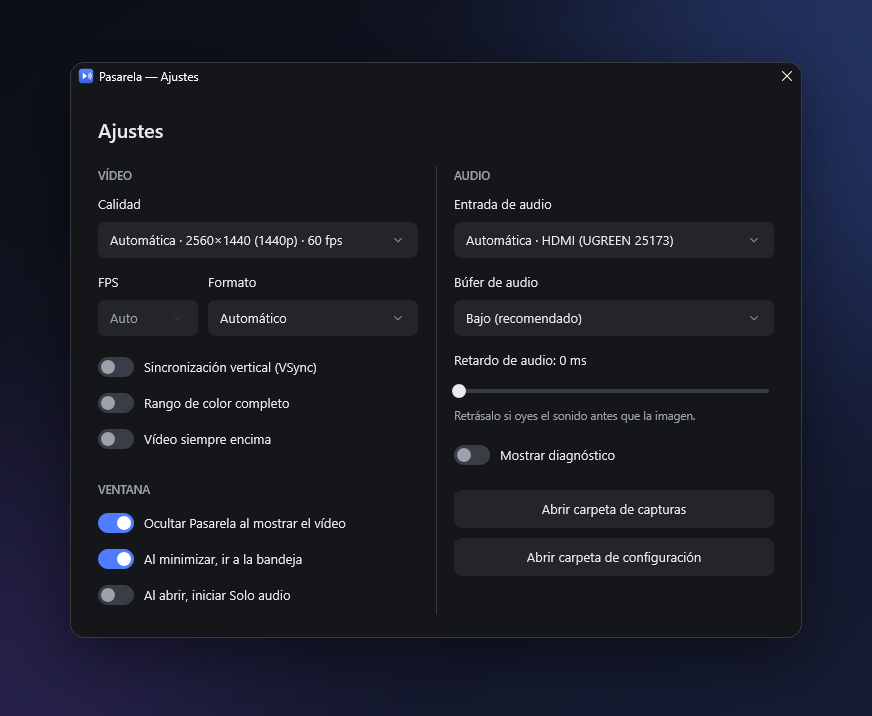
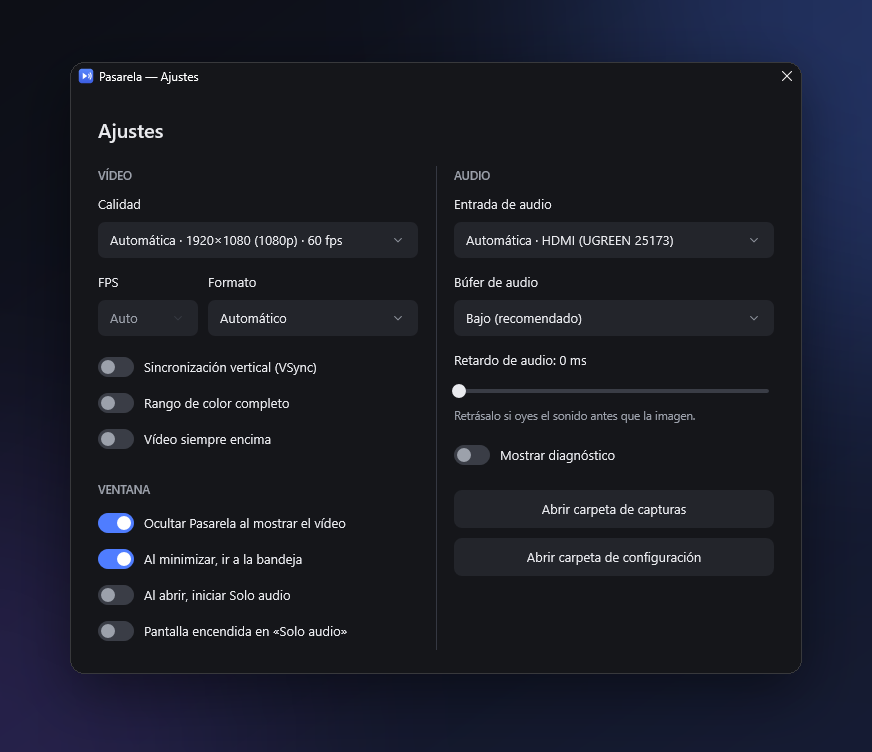
Pasarela 1.0.1: opción «Pantalla encendida en Solo audio» y versión visible en la ventana
Novedades
- Nueva opción en Ajustes › Ventana: «Pantalla encendida en «Solo audio»». Está desactivada
  por defecto. Le pide a Windows que no apague la pantalla mientras suena el audio, como ya
  ocurría con «Mostrar vídeo». Se aplica al momento, sin reiniciar el audio.
- La versión de la aplicación aparece junto al engranaje de la ventana principal, para
  identificar rápidamente qué compilación se está usando.

Sin cambios
- El audio, el vídeo y las capturas son idénticos a la 1.0.0.

Otros
- README e imagen de Ajustes actualizados con la opción nueva.
- Versión 1.0.1.

diff --git a/src/app.cpp b/src/app.cpp
@@ -39,7 +39,7 @@ enum : int {
     ID_BTN_AUDIO = 101, ID_BTN_VIDEO, ID_BTN_STOP, ID_SLIDER_VOL, ID_BTN_MUTE, ID_CB_VIDEO, ID_BTN_REFRESH,
     ID_CB_AOUT, ID_BTN_ADV, ID_CB_QUALITY, ID_CB_FPS, ID_CB_FORMAT, ID_CB_AIN, ID_TG_AUTO_AUDIO, ID_TG_TRAY,
     ID_TG_TOPMOST, ID_TG_VSYNC, ID_TG_FULLRANGE, ID_TG_DIAG, ID_CB_BUFFER, ID_SLIDER_DELAY,
-    ID_BTN_FOLDER, ID_BTN_SHOTS, ID_TG_HIDE_VIDEO,
+    ID_BTN_FOLDER, ID_BTN_SHOTS, ID_TG_HIDE_VIDEO, ID_TG_KEEP_DISPLAY,
 };
 enum : int {
     IDM_FULLSCREEN = 301, IDM_TOPMOST, IDM_MUTE, IDM_DIAG, IDM_HIDE_VIDEO, IDM_SCREENSHOT, IDM_STOP, IDM_SHOW, IDM_AUDIO, IDM_VIDEO,
@@ -185,9 +185,9 @@ private:
 
     HWND btnAudio_{}, btnVideo_{}, btnStop_{}, slVolume_{}, btnMute_{}, cbVideo_{}, btnRefresh_{}, cbOut_{}, btnAdv_{};
     HWND cbQuality_{}, cbFps_{}, cbFormat_{}, cbIn_{}, tgAutoAudio_{}, tgTray_{}, tgTopmost_{}, tgVsync_{}, tgFullRange_{};
-    HWND tgDiag_{}, cbBuffer_{}, slDelay_{}, btnFolder_{}, btnShots_{}, tgHideVideo_{};
+    HWND tgDiag_{}, cbBuffer_{}, slDelay_{}, btnFolder_{}, btnShots_{}, tgHideVideo_{}, tgKeepDisplay_{};
 
-    RECT rcTitle_{}, rcSubtitle_{}, rcVolumeValue_{}, rcStatus_{}, rcTip_{}, rcLblDelay_{},
+    RECT rcTitle_{}, rcSubtitle_{}, rcVersion_{}, rcVolumeValue_{}, rcStatus_{}, rcTip_{}, rcLblDelay_{},
         rcDiag_{};
     std::wstring statusText_;
     ui::Color statusColor_ = ui::theme::textDim;
@@ -378,6 +378,8 @@ void App::CreateControls() {
     tgHideVideo_ = MakeButton(w, ID_TG_HIDE_VIDEO, L"Ocultar Pasarela al mostrar el vídeo");
     tgTray_ = MakeButton(w, ID_TG_TRAY, L"Al minimizar, ir a la bandeja");
     tgAutoAudio_ = MakeButton(w, ID_TG_AUTO_AUDIO, L"Al abrir, iniciar Solo audio");
+    tgKeepDisplay_ = MakeButton(w, ID_TG_KEEP_DISPLAY, L"Pantalla encendida en «Solo audio»");
+    AddTooltip(w, tgKeepDisplay_, L"Evita que Windows apague la pantalla mientras suena el audio");
     cbIn_ = MakeCombo(w, ID_CB_AIN);
     cbBuffer_ = MakeCombo(w, ID_CB_BUFFER);
     slDelay_ = ui::CreateSlider(w, ID_SLIDER_DELAY, 0, 300, s_.audioDelayMs);
@@ -393,6 +395,7 @@ void App::CreateControls() {
     SetToggle(tgHideVideo_, s_.hideOnVideo);
     SetToggle(tgTray_, s_.tray);
     SetToggle(tgAutoAudio_, s_.autoAudio);
+    SetToggle(tgKeepDisplay_, s_.keepDisplayOnAudio);
     SetToggle(tgDiag_, s_.diagnostics);
 
     for (const wchar_t* t : {L"Ultra bajo (puede chasquear)", L"Bajo (recomendado)", L"Seguro (más estable)"})
@@ -426,7 +429,9 @@ void App::Layout() {
     };
 
     // Cabecera: título y botones de icono
-    rcTitle_ = {m, y, m + width - icon - P(8), y + P(32)};
+    // La versión va a la izquierda del engranaje, para identificar rápido qué compilación es.
+    rcVersion_ = {m + width - icon - P(8) - P(70), y, m + width - icon - P(8), y + P(32)};
+    rcTitle_ = {m, y, rcVersion_.left - P(4), y + P(32)};
     place(btnAdv_, m + width - icon, y, icon, icon);
     y += P(32);
     rcSubtitle_ = {m, y, m + width - icon - P(8), y + P(20)};
@@ -532,7 +537,7 @@ void App::LayoutSettings() {
     y += P(20);
     add({x, y, x + colW, y + P(18)}, L"VENTANA", 11.5f, ui::theme::textDim, true);
     y += P(28);
-    for (HWND t : {tgHideVideo_, tgTray_, tgAutoAudio_}) {
+    for (HWND t : {tgHideVideo_, tgTray_, tgAutoAudio_, tgKeepDisplay_}) {
         place(t, x, y, colW, P(30));
         y += P(36);
     }
@@ -616,6 +621,7 @@ void App::Paint(HDC dc) {
     using namespace ui::theme;
     p.Fill(rc, bg);
     p.Text(APP_NAME, rcTitle_, 24.0f * scale_, text, ui::Painter::Left, true);
+    p.Text(std::wstring(L"v") + APP_VERSION, rcVersion_, 12.0f * scale_, textDim, ui::Painter::Right);
     const VideoDevice* dev = SelectedVideoDevice();
     p.Text(dev ? dev->name : L"Capturadora HDMI", rcSubtitle_, 13.0f * scale_, textDim);
     PaintLabels(p, mainLabels_);
@@ -1319,7 +1325,8 @@ void App::UpdateExecutionState() {
     if (session_ == kVideo)
         SetThreadExecutionState(ES_CONTINUOUS | ES_SYSTEM_REQUIRED | ES_DISPLAY_REQUIRED);
     else if (session_ == kAudio)
-        SetThreadExecutionState(ES_CONTINUOUS | ES_SYSTEM_REQUIRED);
+        SetThreadExecutionState(ES_CONTINUOUS | ES_SYSTEM_REQUIRED |
+                                (s_.keepDisplayOnAudio ? ES_DISPLAY_REQUIRED : 0));
     else
         SetThreadExecutionState(ES_CONTINUOUS);
 }
@@ -1837,6 +1844,11 @@ void App::OnCommand(int id, int code) {
             ShellExecuteW(hwnd_, L"open", DataDirectory().c_str(), nullptr, nullptr, SW_SHOWNORMAL);
             return;
         case ID_TG_AUTO_AUDIO: s_.autoAudio = !s_.autoAudio; SetToggle(tgAutoAudio_, s_.autoAudio); return;
+        case ID_TG_KEEP_DISPLAY:
+            s_.keepDisplayOnAudio = !s_.keepDisplayOnAudio;
+            SetToggle(tgKeepDisplay_, s_.keepDisplayOnAudio);
+            UpdateExecutionState();  // se aplica al momento si «Solo audio» ya está en marcha
+            return;
         case ID_TG_TRAY: s_.tray = !s_.tray; SetToggle(tgTray_, s_.tray); return;
         case ID_TG_VSYNC: s_.vsync = !s_.vsync; SetToggle(tgVsync_, s_.vsync); ApplyRenderOptions(); return;
         case ID_TG_FULLRANGE:

diff --git a/src/settings.cpp b/src/settings.cpp
@@ -47,6 +47,7 @@ void Settings::Load() {
     bufferProfile = Clamp(ReadInt(a, L"BuferAudio", 1), 0, 2);
     audioDelayMs = Clamp(ReadInt(a, L"RetardoAudioMs", 0), 0, 300);
     hideOnVideo = ReadInt(a, L"OcultarConVideo", 1) != 0;
+    keepDisplayOnAudio = ReadInt(a, L"PantallaEncendidaAudio", 0) != 0;
 
     videoRect.left = ReadInt(w, L"VideoX", 0);
     videoRect.top = ReadInt(w, L"VideoY", 0);
@@ -90,6 +91,7 @@ void Settings::Save() const {
     WriteInt(a, L"BuferAudio", bufferProfile);
     WriteInt(a, L"RetardoAudioMs", audioDelayMs);
     WriteInt(a, L"OcultarConVideo", hideOnVideo);
+    WriteInt(a, L"PantallaEncendidaAudio", keepDisplayOnAudio);
 
     WriteInt(w, L"VideoX", videoRect.left);
     WriteInt(w, L"VideoY", videoRect.top);

diff --git a/src/settings.h b/src/settings.h
@@ -25,6 +25,7 @@ struct Settings {
     int bufferProfile = 1;
     int audioDelayMs = 0;
     bool hideOnVideo = true;    // ocultar la ventana principal al mostrar el vídeo
+    bool keepDisplayOnAudio = false;  // «Solo audio» también mantiene la pantalla encendida
 
     // Ventanas
     RECT videoRect{0, 0, 0, 0};

diff --git a/src/common.h b/src/common.h
@@ -27,7 +27,7 @@
 using Microsoft::WRL::ComPtr;
 
 #define APP_NAME L"Pasarela"
-#define APP_VERSION L"1.0.0"
+#define APP_VERSION L"1.0.1"
 
 // Mensajes privados entre hilos y la ventana principal.
 enum : UINT {

diff --git a/README.md b/README.md
@@ -62,6 +62,7 @@ Notas:
 | Al minimizar, ir a la bandeja | Minimizar = segundo plano. |
 | Al abrir, iniciar Solo audio | Al abrir Pasarela empieza a sonar la consola sin pulsar nada. |
 | Abrir carpeta de capturas | Abre `Imágenes\Pasarela`, donde se guardan las capturas. |
+| Pantalla encendida en «Solo audio» | Desactivada por defecto. Hace que Windows no apague la pantalla mientras suena el audio, como ya ocurre con «Mostrar vídeo». |
 | Diagnóstico | FPS recibidos y mostrados, fotogramas descartados, tiempos medidos, colchón de audio y cortes. |
 
 La configuración se guarda en `Pasarela.ini` junto al `.exe` (o en `%APPDATA%\Pasarela` si esa carpeta no admite escritura). El registro `Pasarela.log` se reinicia en cada ejecución y nunca se envía a ningún sitio.
